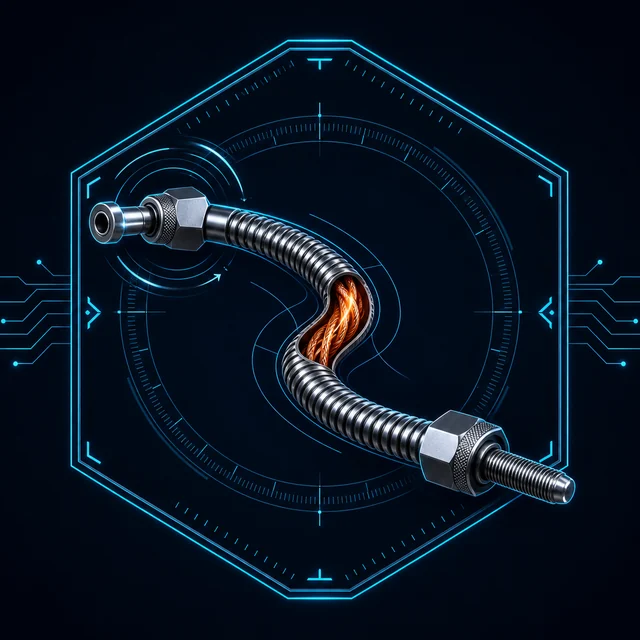
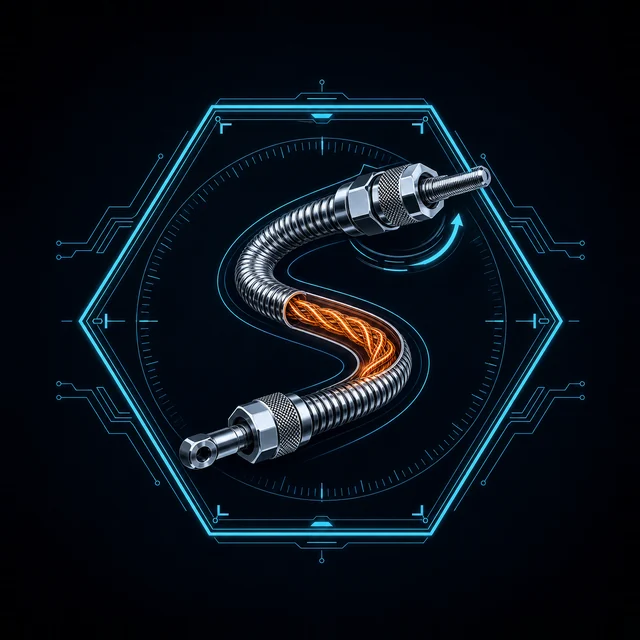
feat: nuova immagine del cavo (S con trefoli arancioni)
Immagine del reparto cavi sostituita con la versione a S, centrata e con l'esagono della stessa dimensione delle altre tre. Versione file v=35.

Changed region(s): [[0.0, 0.0312, 1.0, 0.9688], [0.0, 0.4062, 0.0312, 0.4375]]

diff --git a/index.html b/index.html
@@ -30,8 +30,8 @@
 <link rel="preload" as="fetch" href="img/hero-pezzo.bin" crossorigin>
 <link rel="modulepreload" href="js/vendor/three.module.min.js">
 <link rel="modulepreload" href="js/vendor/RoomEnvironment.js">
-<link rel="modulepreload" href="js/hero3d.js?v=34">
-<link rel="stylesheet" href="css/style.css?v=34">
+<link rel="modulepreload" href="js/hero3d.js?v=35">
+<link rel="stylesheet" href="css/style.css?v=35">
 </head>
 <body>
 
@@ -153,12 +153,12 @@
   </div>
 </footer>
 
-<script src="js/schedario.js?v=34"></script>
-<script src="js/prezzi.js?v=34"></script>
-<script src="js/testi.js?v=34"></script>
-<script src="js/i18n.js?v=34"></script>
-<script src="js/file.js?v=34"></script>
-<script src="js/app.js?v=34"></script>
-<script type="module" src="js/hero3d.js?v=34"></script>
+<script src="js/schedario.js?v=35"></script>
+<script src="js/prezzi.js?v=35"></script>
+<script src="js/testi.js?v=35"></script>
+<script src="js/i18n.js?v=35"></script>
+<script src="js/file.js?v=35"></script>
+<script src="js/app.js?v=35"></script>
+<script type="module" src="js/hero3d.js?v=35"></script>
 </body>
 </html>
